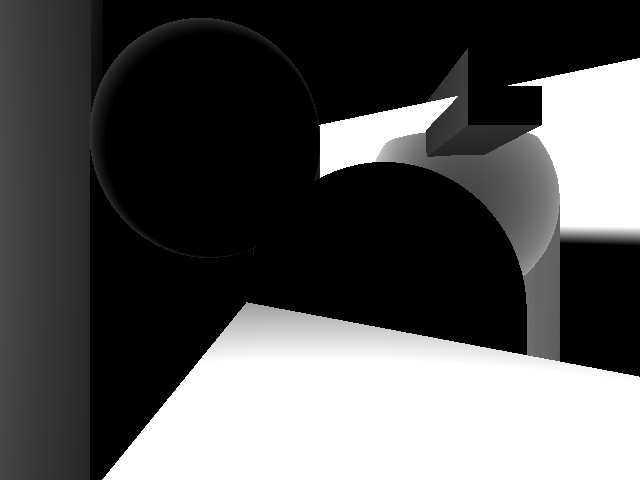
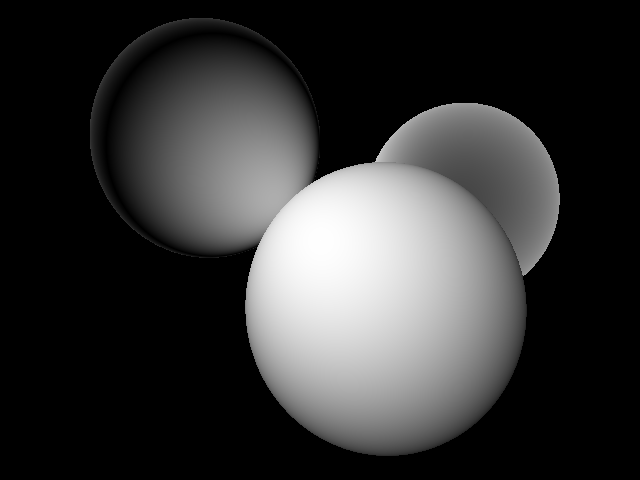
Fixed some issues,

diff --git a/rt/intersection.cpp b/rt/intersection.cpp
@@ -20,9 +20,16 @@ namespace rt
 			throw;
 		}
 
+		// Changing the direction of normal vector towards the ray.
+		Vector normalVector = normal;
+		if (dot(normal, ray.d) < 0)
+		{
+			normalVector = -1 * normal;
+		}
+
 		this->ray = ray;
 		this->solid = solid;
-		this->normalVector = normal;
+		this->normalVector = normalVector;
 		this->globalIntersectionPoint = ray.getPoint(distance);
 		foundIntersection = true;
 	}

diff --git a/rt/integrators/casting.cpp b/rt/integrators/casting.cpp
@@ -9,7 +9,11 @@ namespace rt
 	RGBColor RayCastingIntegrator::getRadiance(const Ray& ray) const
 	{
 		Intersection intersection = this->world->scene->intersect(ray, MAX_DIST);
-		float grayColor = dot(intersection.normal(), ray.d);
+		float grayColor = 0;
+		
+		if(intersection)
+			grayColor = abs(dot(intersection.normal(), ray.d));
+
 		return RGBColor(grayColor, grayColor, grayColor);
 	}
 }

diff --git a/main/a_solids.cpp b/main/a_solids.cpp
@@ -47,7 +47,7 @@ void a_solids() {
 	Renderer engine(&cam, &integrator);
 	engine.render(img);
 	img.writePNG("a2-1.png");
-	DrawImage::displayImage(img);
+	// DrawImage::displayImage(img);
 
 	//RayCastingDistIntegrator integratorb(&world, RGBColor(1.0f,0.2f,0.0f), 4.0f, RGBColor(0.2f,1.0f,0.0f), 12.0f);
 	//Renderer engineb(&cam, &integratorb);
